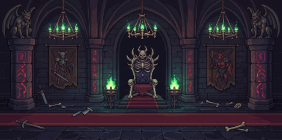
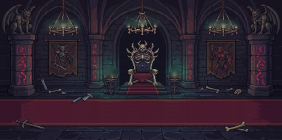
王座廳 bg_07 完成:紅毯拉高、火焰/紅眼特效 fx_07.json
Claude-Session: https://claude.ai/code/session_01VgWDma9wRVh94nUCbzKnsT

diff --git a/assets/battle/readme.md b/assets/battle/readme.md
@@ -7,7 +7,7 @@
 
 - `sky_mask_03.png`:沙漠的天空範圍(不透明處=天空)。飄動的雲只畫在這個範圍內,所以會躲在金字塔後面;雲不要低於地平線。
 - `clouds.json`:雲的形狀(4 朵,取自沙漠原圖)與各主題色盤(day 白雲 / dusk 粉雲)。森林用 day 色盤,沙漠用 dusk 色盤。
-- 暫存(只有背景,尚未切前景/調站位,之後逐張修):`bg_07`(王座廳,282×140)、`bg_08`(魔王城,564×140)、`bg_09`(城堡大廳,564×140)。
+- 暫存(只有背景,尚未切前景/調站位,之後逐張修):`bg_08`(魔王城,564×140)、`bg_09`(城堡大廳,564×140)。
 - `bg_04` + `fg_04`(熔岩,564×140)已完成:上方裁掉 12 格、道路拉長,前景含底部黑石、岩尖、植物。特效參數(動態煙、火泡、火星)在 `fx_04.json`;原圖的煙保留,特效疊在上面。
 - `bg_05` + `fg_05`(冰原,564×140)已完成:上方裁掉 10 格、道路拉長,原圖的雲已削掉,改用 `clouds.json` 的雲在天空飄(`sky_mask_05.png` 讓雲躲在山後面),前景為底部雪岩與樹樁。飄雪參數在 `fx_05.json`。
 - `fx_02.json`:洞窟(bg_02)的發光物光暈參數(背景 5 處、前景 2 處,前景光暈疊在 fg_02 上面)。
@@ -15,3 +15,5 @@
 - 墓穴(bg_06):已完成,道路拉高、地毯鋪滿下方;fg_06=連續鐵柵欄(矛尖微起伏);fx_06.json=蘑菇/符文/燈籠光暈(無霧)。
 
 - 怪物 `monsters/skeleton_soldier*`:骷髏士兵(40×40,已翻轉面向左,睜眼/閉眼兩張 + json 參數:膝蓋以上起伏、眨眼週期、陰影)。陰影統一上移 2 格,出場時陰影跟著怪物。
+
+- 王座廳(bg_07):已完成,紅毯拉高、不切前景;fx_07.json=蠟燭/火盆會晃動的火焰(程式畫)、石像鬼紅眼微光、綠色光暈。暫存剩 bg_08、bg_09。
